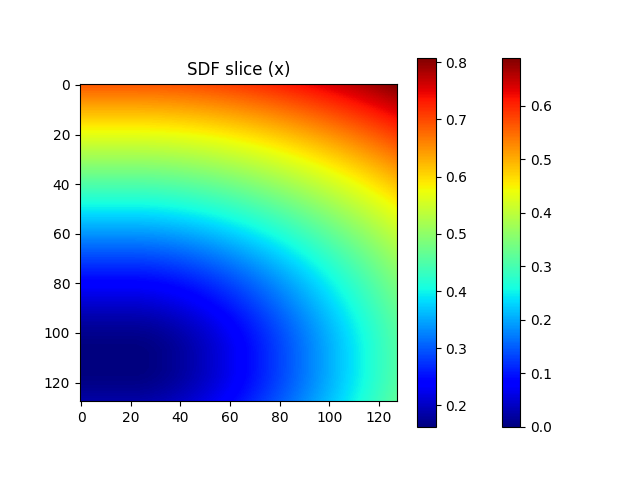
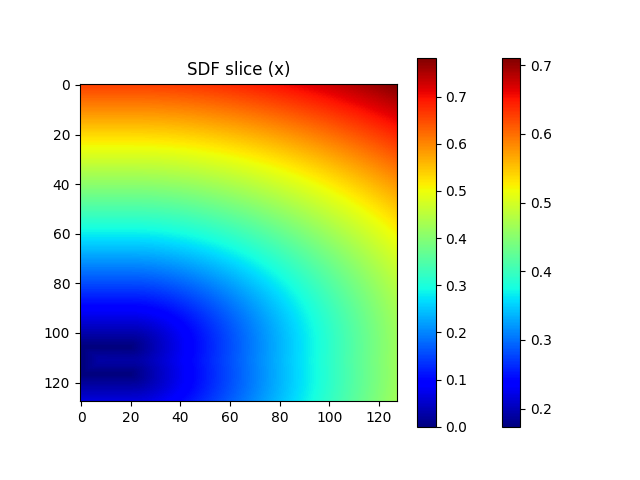
fixing 2d slices

diff --git a/sdf_visualization.py b/sdf_visualization.py
@@ -119,11 +119,13 @@ def visualize_workspace(mug_transform, workspace_bound=None, workspace_resolutio
     sdf = query_sdf(scene, points)  ### SDF/sDF
     sdf = sdf.reshape(workspace_resolution, workspace_resolution, workspace_resolution)
 
+    slice_2d_resolution = workspace_resolution*2
+
     # Visualize - 2D slice
     points_2d = compute_3d_points(workspace_bound, workspace_resolution*2)  # for 2D slice visualization
     sdf_2d = query_sdf(scene, points_2d)  ### SDF/sDF
-    sdf_2d = sdf_2d.reshape(workspace_resolution*2, workspace_resolution*2, workspace_resolution*2)
-    xyz_slices =mug_transform #[workspace_resolution // 2, workspace_resolution // 2, workspace_resolution // 2]
+    sdf_2d = sdf_2d.reshape(slice_2d_resolution, slice_2d_resolution, slice_2d_resolution)
+    xyz_slices = [slice_2d_resolution// 2, slice_2d_resolution // 2, slice_2d_resolution // 2]
     visualize_2d_slices(sdf_2d, xyz_slices, display_2d_slices)
 
     # # Visualize the mug and the workspace
@@ -164,4 +166,4 @@ _ = scene.add_triangles(mesh)  # we do not need the geometry ID for mesh
 center = mesh_legacy.get_center()
 print("center:", center)
 center = numpy.array([0.2, 0.3, 0.039])  # for visualization purposes, we can set the center to be the middle of the workspace
-_ = visualize_workspace(center, workspace_bound, workspace_resolution=64, display_2d_slices=False, select_specific_dist=True, d_star=0.2);
+_ = visualize_workspace(center, workspace_bound, workspace_resolution=64, display_2d_slices=False, select_specific_dist=False, d_star=0.2);